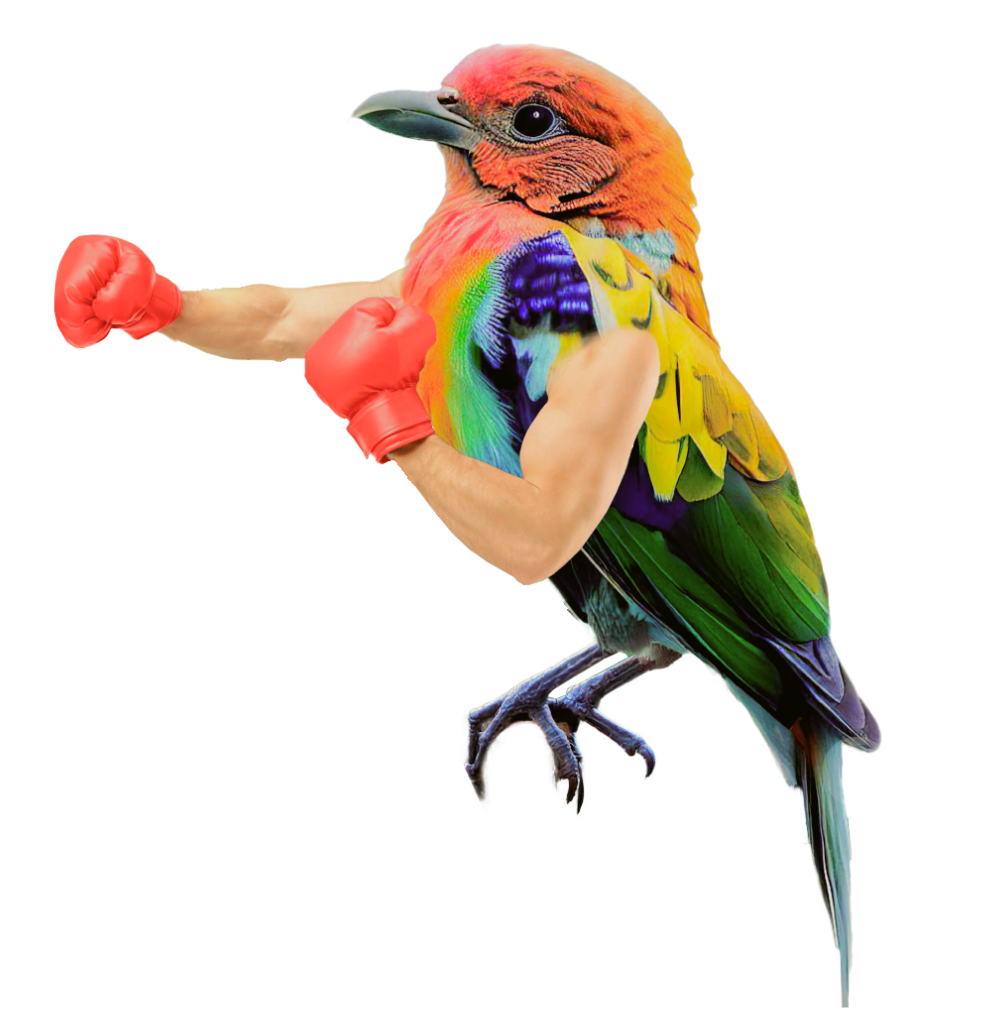
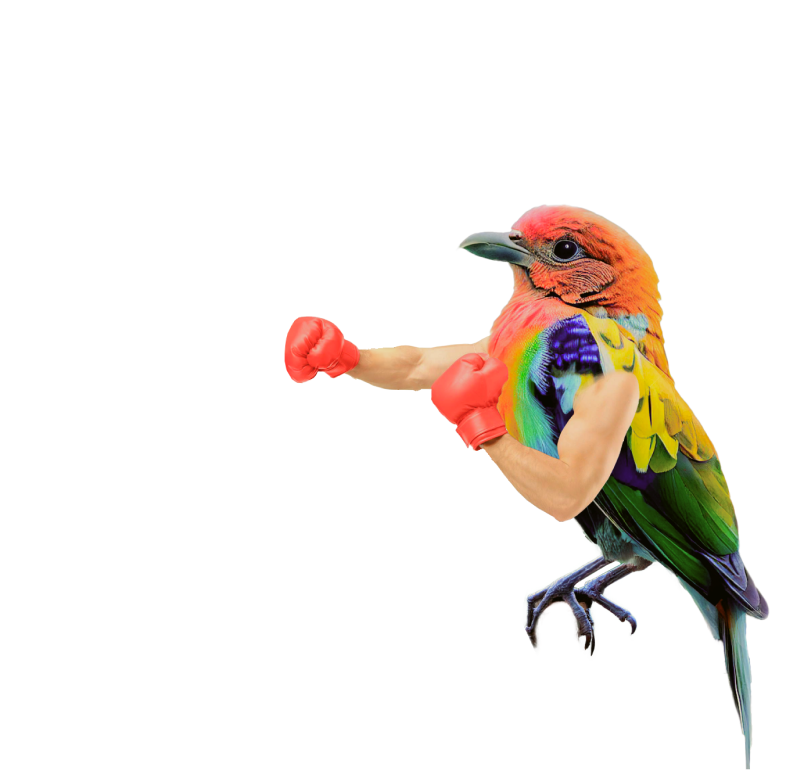
Aggiornamento automatico

Changed region(s): [[0.0305, 0.0307, 0.9759, 0.9834]]

diff --git a/output.html b/output.html
@@ -42,16 +42,9 @@
 	text-align: center;
 	width: 100%;
 	}
-	.box {
-	position: absolute;
-	margin-top: 120px;
-	margin-left: 116px;
-	width: 227px;
-	overflow: hidden;
-	}
 	.section-2 img.bird {
-	width: 300px;
-	object-fit: cover;
+	position: absolute;
+	width: 100%;
 	}
 	.section-2 .text-image {
 	width: 100%; /* Adatta la larghezza per dispositivi mobili */
@@ -187,9 +180,7 @@
 	<!-- Sezione 2 -->
 	<div class="section section-2">
 	<div class="wrap">
-	<div class="box">
 	<img id="uccello1-image" src="" alt="Bird" class="bird">
-	</div>
 	<img src="section-2-1.png" alt="Section Text" class="text-image">
 	<img id="personalita1-image" src="" alt="Section Text" class="tag1">
 	<img src="section-2-2.png" alt="Section Text" class="text-image">
@@ -240,6 +231,9 @@
         const percentuale1 = params.get('percentuale1');
         const percentuale2 = params.get('percentuale2');
         const percentuale3 = params.get('percentuale3');
+	const rettangolo1 = document.getElementById('rettangolo1');
+        const rettangolo2 = document.getElementById('rettangolo2');
+        const rettangolo3 = document.getElementById('rettangolo3');
 	if (uccello2) document.getElementById('uccello2-image').src = `https://raw.githubusercontent.com/MarcoToon/output/refs/heads/main/${uccello2}.png`;
 	if (tag1) document.getElementById('tag1-image').src = `https://raw.githubusercontent.com/MarcoToon/output/refs/heads/main/${tag1}.png`;
         if (tag2) document.getElementById('tag2-image').src = `https://raw.githubusercontent.com/MarcoToon/output/refs/heads/main/${tag2}.png`;
@@ -247,9 +241,9 @@
 	if (percentuale1) document.getElementById('percentuale1').innerText = `${percentuale1}%`;
         if (percentuale2) document.getElementById('percentuale2').innerText = `${percentuale2}%`;
         if (percentuale3) document.getElementById('percentuale3').innerText = `${percentuale3}%`;
-	if (percentuale1) document.getElementById('rettangolo1').width = `${percentuale1}%`;
-        if (percentuale2) document.getElementById('rettangolo2').width = `${percentuale2}%`;
-        if (percentuale3) document.getElementById('rettangolo3').width = `${percentuale3}%`;
+	rettangolo1.style.width = `${percentuale1}%`;
+        rettangolo2.style.width = `${percentuale2}%`;
+        rettangolo3.style.width = `${percentuale3}%`;
 	if (uccello1) document.getElementById('uccello1-image').src = `https://raw.githubusercontent.com/MarcoToon/output/refs/heads/main/${uccello1}bird.png`;
         if (personalita1) document.getElementById('personalita1-image').src = `https://raw.githubusercontent.com/MarcoToon/output/refs/heads/main/${personalita1}.png`;
         if (personalita2) document.getElementById('personalita2-image').src = `https://raw.githubusercontent.com/MarcoToon/output/refs/heads/main/${personalita2}.png`;
